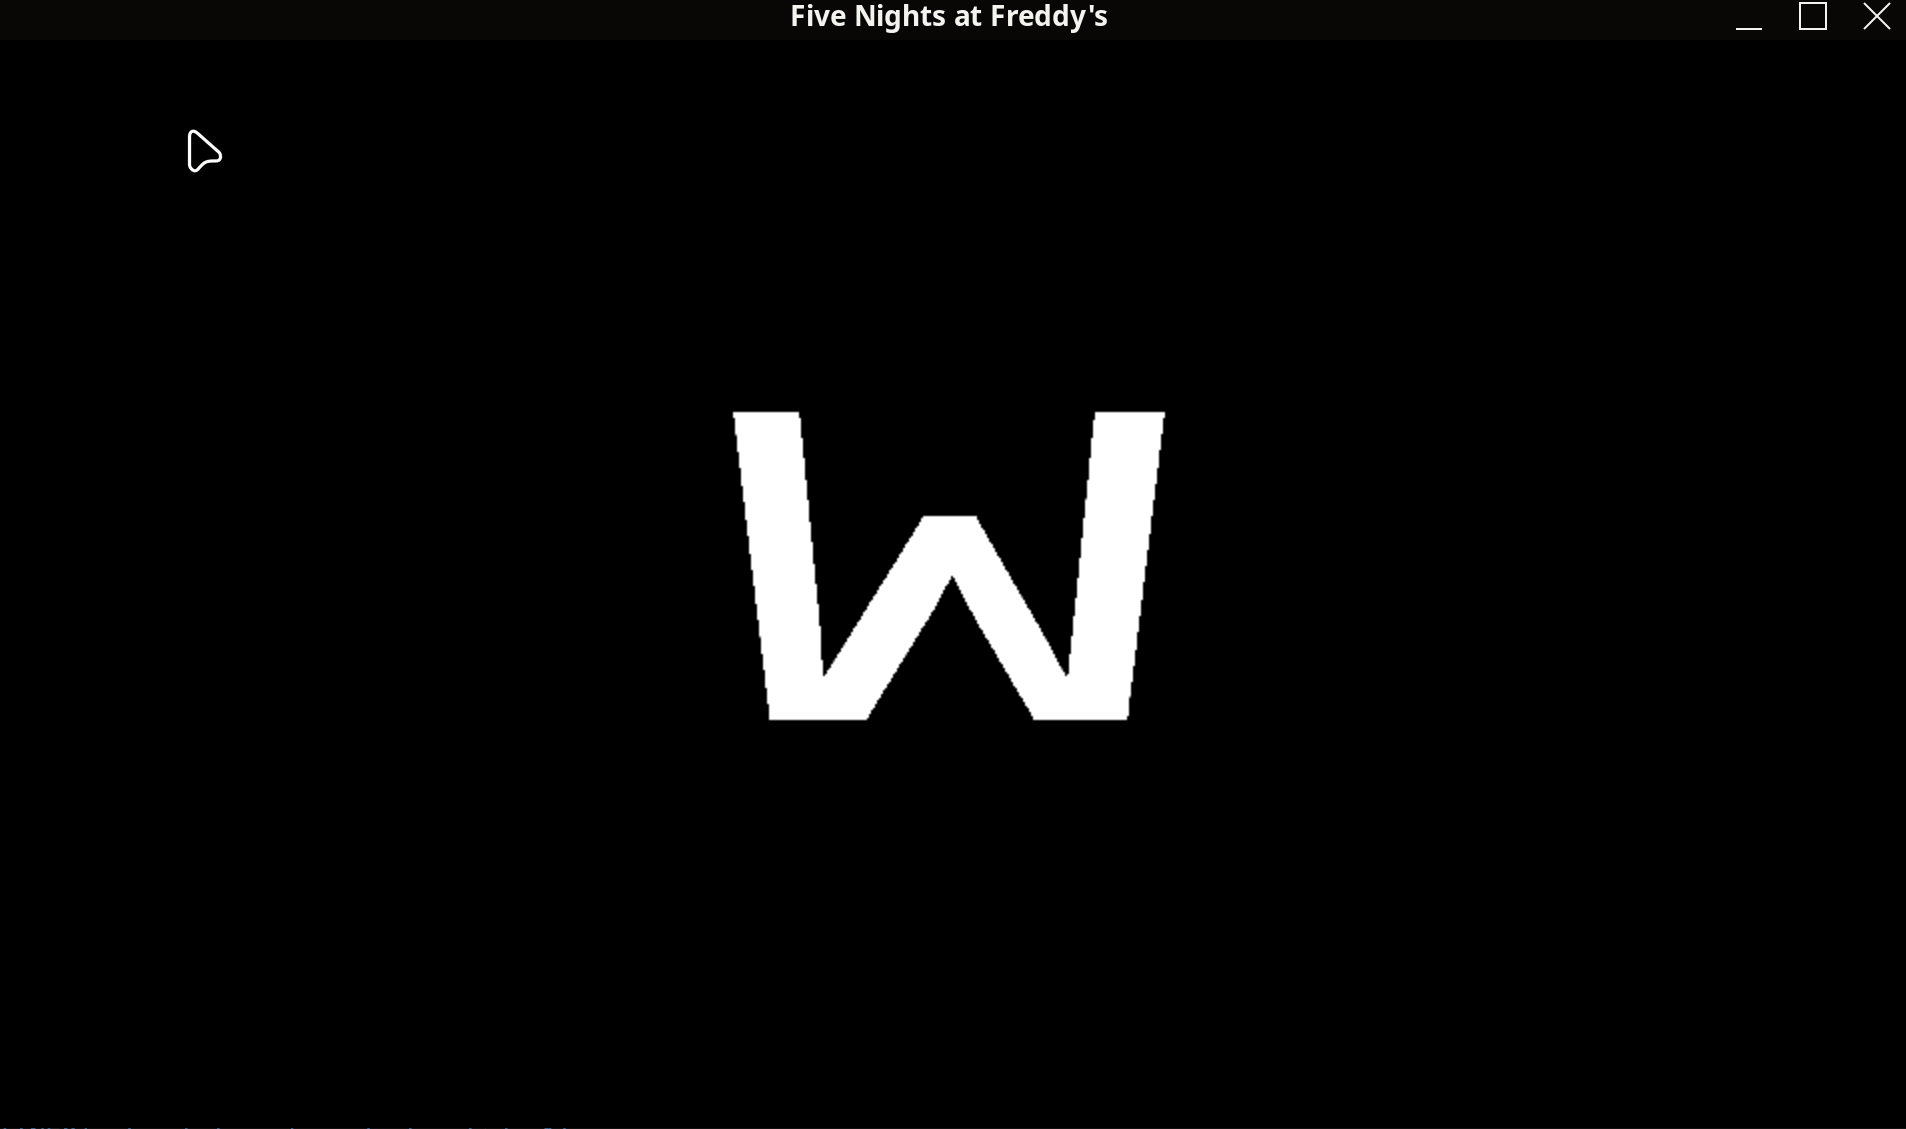
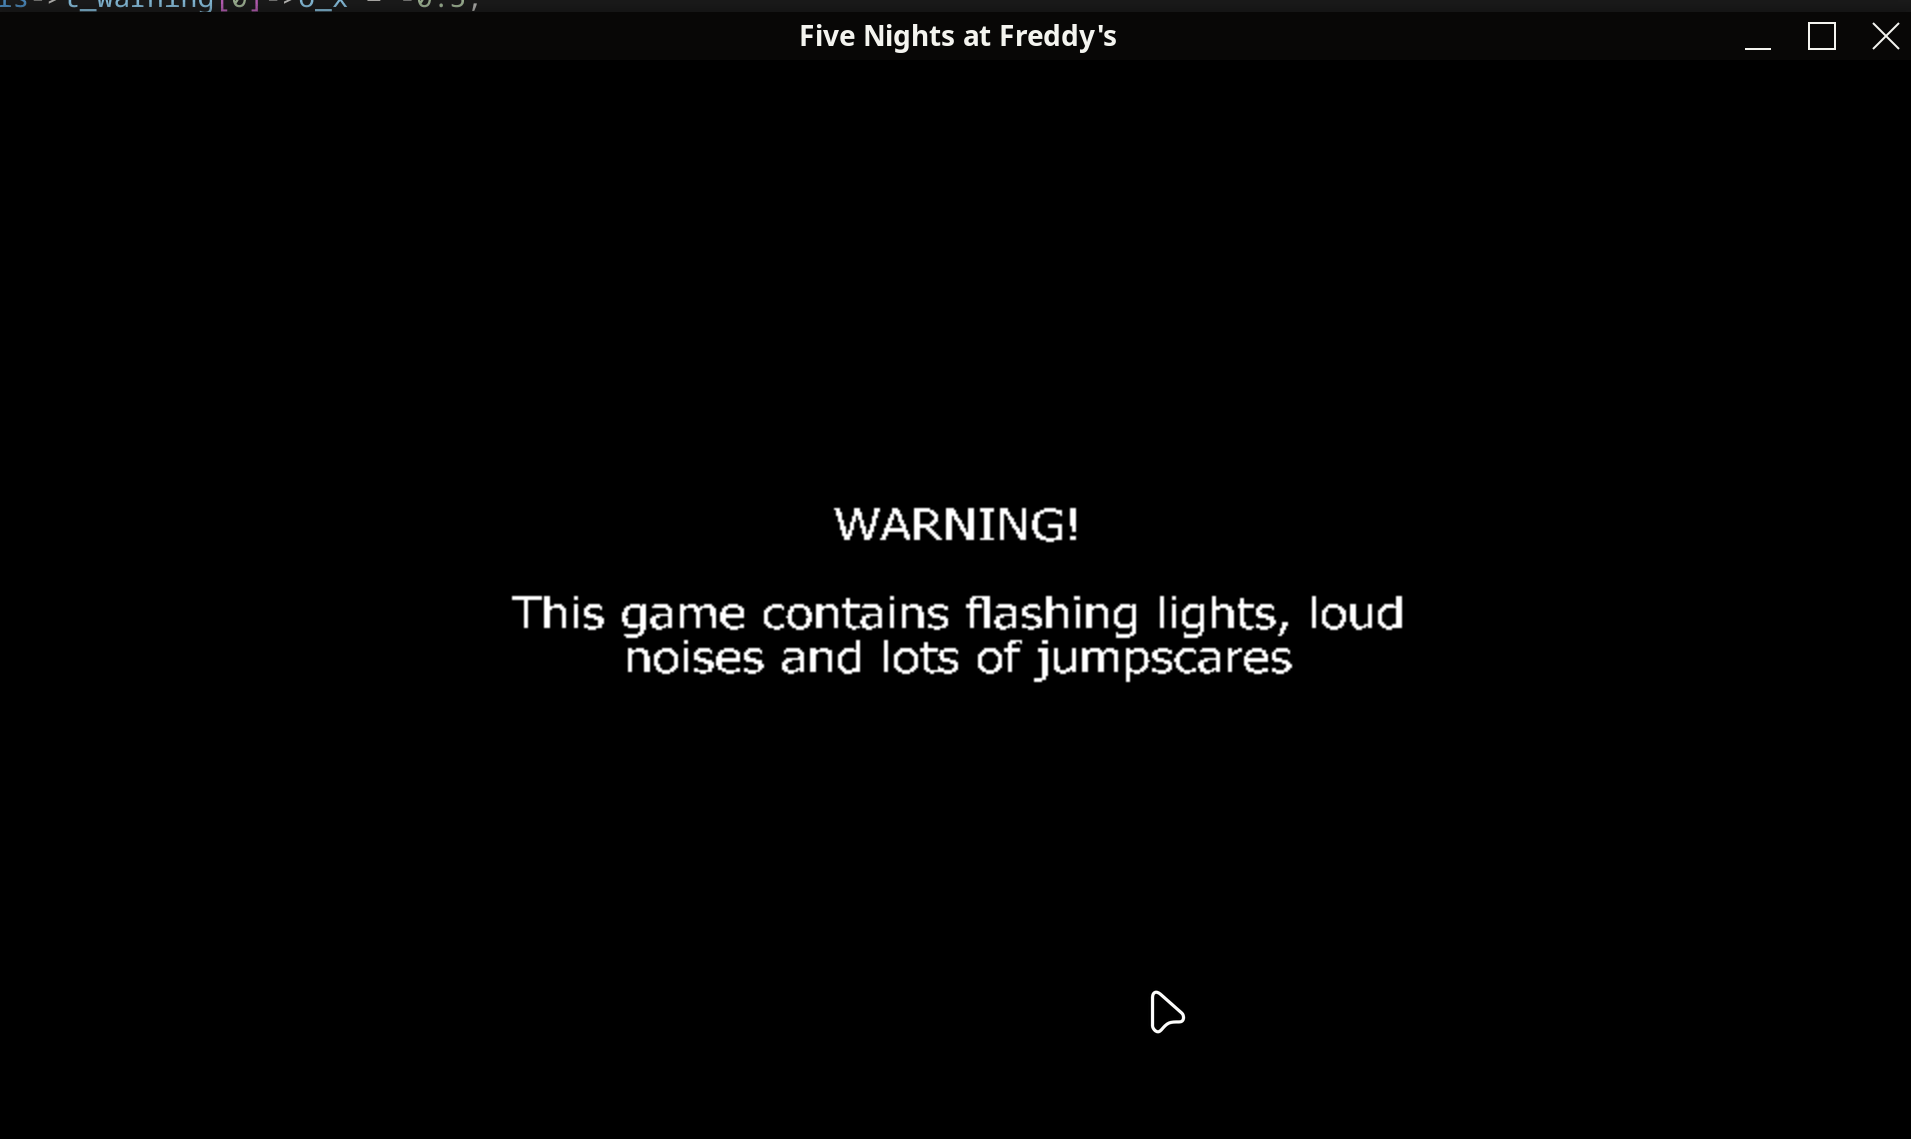
feat(mtsdf): MTSDF rendering is rather correct for now.

diff --git a/src/gl/mtsdf/font.cpp b/src/gl/mtsdf/font.cpp
@@ -6,10 +6,11 @@ using namespace GL;
 #include "gl/shader.hpp"
 
 #include <iostream>
+#include <sstream>
 
 std::unique_ptr<GL::Shader> MTSDF::Font::default_shader;
 
-MTSDF::Font::Font(const std::string& path, size_t count_x, size_t count_y, std::string charset)
+MTSDF::Font::Font(const std::string& path, const std::string& csv_path)
 {
     if(!default_shader)
         default_shader = std::make_unique<GL::Shader>("assets/shaders/mtsdf_default.vert", "assets/shaders/mtsdf_default.frag");
@@ -21,23 +22,37 @@ MTSDF::Font::Font(const std::string& path, size_t count_x, size_t count_y, std::
         .gpu_format = GL_RGBA,
         .format = GL_RGBA,
     });
-    this->count_x = count_x, this->count_y = count_y;
 
-    size_t index = 0;
-    double char_w = 1.0 / this->count_x, char_h = 1.0 / this->count_y;
-    for(auto& character : charset)
+    std::ifstream file(csv_path);
+    std::string line;
+    while (std::getline(file, line))
     {
-        SDL_FRect& current = rects[character];
-        int x = index % count_x, y = index / count_y;
-        current.x = x * char_w;
-        current.y = y * char_h;
-        current.w = char_w;
-        current.h = char_h;
-        index++;
-    }
-    this->path = path;
+        std::istringstream ss(line);
+        std::string token;
+        int column = 0;
+        GlyphData g{};
+        char c = 0;
 
-    std::cout << TTY_BLUE << "[INFO]: Loaded MTSDF font (path: " << this->path << ") (count_x: " << count_x << ") (count_y: " << count_y << ")\n" << TTY_RESET;
+        while (std::getline(ss, token, ',')) {
+            switch (column) {
+                case 0: c = std::stoi(token); break;
+                case 1: g.advance = std::stof(token); break;
+                case 2: g.quad.x = std::stof(token); break;
+                case 3: g.quad.y = std::stof(token); break;
+                case 4: g.quad.w = std::stof(token); break;
+                case 5: g.quad.h = std::stof(token); break;
+                case 6: g.atlas.x = std::stof(token) / this->texture->w; break;
+                case 7: g.atlas.y = std::stof(token) / this->texture->h; break;
+                case 8: g.atlas.w = std::stof(token) / this->texture->w; break;
+                case 9: g.atlas.h = std::stof(token) / this->texture->h; break;
+            }
+            column++;
+        }
+        glyphs[c] = g;
+    }
+
+    this->path = path;
+    std::cout << TTY_BLUE << "[INFO]: Loaded MTSDF font (path: " << this->path << ") (csv: " << csv_path << ")\n" << TTY_RESET;
 }
 
 MTSDF::Font::~Font()

diff --git a/src/gl/mtsdf/text.cpp b/src/gl/mtsdf/text.cpp
@@ -1,4 +1,5 @@
 #include "gl/mtsdf/text.hpp"
+#include <iostream>
 
 using namespace GL;
 
@@ -18,35 +19,57 @@ inline void buildVertices(GL::MTSDF::Text& self)
     // TODO: not optimal.
     self.vertexData.clear();
 
-    float pen_x = self.x;
-    float pen_y = self.y;
+    // Calculate maximum sizes.
+    float t_w = 0, t_h = 0;
+    for(char c : self.text)
+    {
+        auto it = self.font->glyphs.find(c);
+        if(it == self.font->glyphs.end()) continue;
+
+        t_w += self.s * it->second.advance * self.s_x;
+    }
+
+    float pen_x = self.x + t_w * self.o_x;
+    float pen_y = self.y + t_h * self.o_y;
 
     for(char c : self.text)
     {
-        auto it = self.font->rects.find(c);
-        if(it == self.font->rects.end()) continue;
+        auto it = self.font->glyphs.find(c);
+        if(it == self.font->glyphs.end()) continue;
 
-        SDL_FRect rect = it->second;
-        float w = self.w;
-        float h = self.h;
+        SDL_FRect& atlas = it->second.atlas;
+        float& u0 = atlas.x;
+        float& v0 = atlas.y;
+        float& u1 = atlas.w;
+        float& v1 = atlas.h;
 
-        float u0 = rect.x;
-        float v0 = rect.y;
-        float u1 = (rect.x + rect.w);
-        float v1 = (rect.y + rect.h);
+        SDL_FRect quad = it->second.quad;
+        quad.x *= self.s * self.s_x;
+        quad.y *= self.s * self.s_y;
+        quad.w *= self.s * self.s_x;
+        quad.h *= self.s * self.s_y;
 
         self.vertexData.insert(self.vertexData.end(), {
-            pen_x,     pen_y,     u0, v0,
-            pen_x+w,   pen_y,     u1, v0,
-            pen_x+w,   pen_y+h,   u1, v1,
+            pen_x + quad.x, pen_y + quad.y,    
+            u0, v1,
 
-            pen_x,     pen_y,     u0, v0,
-            pen_x+w,   pen_y+h,   u1, v1,
-            pen_x,     pen_y+h,   u0, v1,
+            pen_x + quad.w, pen_y + quad.y,
+            u1, v1,
+
+            pen_x + quad.w, pen_y + quad.h,
+            u1, v0,
+
+            pen_x + quad.x, pen_y + quad.y,
+            u0, v1,
+
+            pen_x + quad.w, pen_y + quad.h,
+            u1, v0,
+
+            pen_x + quad.x, pen_y + quad.h,
+            u0, v0,
         });
 
-        pen_x += w;
-        break;
+        pen_x += self.s * it->second.advance * self.s_x;
     }
 
     glBindBuffer(GL_ARRAY_BUFFER, self.vbo);

diff --git a/src/game/main_loading.cpp b/src/game/main_loading.cpp
@@ -7,10 +7,31 @@ using namespace Game;
 
 States::MainLoading::MainLoading()
 {
-    this->f_consolas = Core::AssetManager::load<GL::MTSDF::Font>("f_consolas", "assets/images/fonts/consolas.stf.png");
-    this->t_warning = std::make_unique<GL::MTSDF::Text>(f_consolas, "WARNING!");
-    this->t_warning->x = -0.5;
-    this->t_warning->y = -0.5;
+    this->f_tahoma = Core::AssetManager::load<GL::MTSDF::Font>("f_tahoma", "assets/images/fonts/tahoma.stf.png", "assets/images/fonts/tahoma.csv");
+
+    // TODO: ugly
+
+    this->t_warning[0] = std::make_unique<GL::MTSDF::Text>(f_tahoma, "WARNING!");
+    this->t_warning[0]->o_x = -0.5;
+    this->t_warning[0]->x = 0;
+    this->t_warning[0]->y = 80 / 544.0;
+    this->t_warning[0]->o_x = -0.5;
+    this->t_warning[0]->s = 40 / 544.0;
+    this->t_warning[0]->s_x = 0.66;
+    
+    this->t_warning[1] = std::make_unique<GL::MTSDF::Text>(f_tahoma, "This game contains flashing lights, loud");
+    this->t_warning[1]->o_x = -0.5;
+    this->t_warning[1]->x = 0;
+    this->t_warning[1]->y = 0 / 544.0;
+    this->t_warning[1]->s = 40 / 544.0;
+    this->t_warning[1]->s_x = 0.66;
+
+    this->t_warning[2] = std::make_unique<GL::MTSDF::Text>(f_tahoma, "noises, and lots of jumpscares!");
+    this->t_warning[2]->o_x = -0.5;
+    this->t_warning[2]->x = 0;
+    this->t_warning[2]->y = -40 / 544.0;
+    this->t_warning[2]->s = 40 / 544.0;
+    this->t_warning[2]->s_x = 0.66;
 }
 
 States::MainLoading::~MainLoading()
@@ -31,7 +52,8 @@ void States::MainLoading::draw(int w, int h)
     glClearColor(0.0f, 0.0f, 0.0f, 1.0f);
     glClear(GL_COLOR_BUFFER_BIT);
 
-    this->t_warning->draw(GL::MTSDF::Font::default_shader);
+    for(auto index = 0; index < 3; index++)
+        this->t_warning[index]->draw(GL::MTSDF::Font::default_shader);
 }
 
 void States::MainLoading::update(double dt)

diff --git a/inc/gl/mtsdf/font.hpp b/inc/gl/mtsdf/font.hpp
@@ -12,16 +12,22 @@
 
 namespace GL::MTSDF
 {
+    struct GlyphData
+    {
+        float advance;
+        SDL_FRect quad;
+        SDL_FRect atlas;
+    };
+
     struct Font : public Core::Asset
     {
         std::unique_ptr<Texture> texture;
-        size_t count_x, count_y;
-        std::map<char, SDL_FRect> rects;
+        std::map<char, GlyphData> glyphs;
         std::string path;
 
         static std::unique_ptr<GL::Shader> default_shader;
 
-        Font(const std::string&, size_t = 10, size_t = 10, std::string = "!\"#$%&\'()*+,-./0123456789:;<=>?@ABCDEFGHIJKLMNOPQRSTUVWXYZ[\\]^_`abcdefghijklmnopqrstuvwxyz{|}~      ");
+        Font(const std::string&, const std::string&);
         ~Font();
     };
 }

diff --git a/inc/game/main_loading.hpp b/inc/game/main_loading.hpp
@@ -11,8 +11,8 @@ namespace Game::States
         MainLoading();
         ~MainLoading();
 
-        std::unique_ptr<GL::MTSDF::Text> t_warning;
-        std::shared_ptr<GL::MTSDF::Font> f_consolas;
+        std::unique_ptr<GL::MTSDF::Text> t_warning[3];
+        std::shared_ptr<GL::MTSDF::Font> f_tahoma;
 
         virtual void draw(int w, int h) override;
         virtual void update(double dt) override;

diff --git a/src/game/menu/background.cpp b/src/game/menu/background.cpp
@@ -14,10 +14,10 @@ Background::Background()
     );
 
     static float verts[] = {
-        1.0f, 1.0f, 0.0f, 1.0f,
-        -1.0f, 1.0, 1.0f, 1.0f,
-        1.0f, -1.0f, 0.0f, 0.0f,
-        -1.0f, -1.0f, 1.0f, 0.0f,
+        -1.0f, -1.0f, 0.0f, 1.0f,
+        1.0f, -1.0, 1.0f, 1.0f,
+        -1.0f, 1.0f, 0.0f, 0.0f,
+        1.0f, 1.0f, 1.0f, 0.0f,
     };
 
     glGenBuffers(1, &this->vbo);

diff --git a/inc/gl/mtsdf/text.hpp b/inc/gl/mtsdf/text.hpp
@@ -15,8 +15,9 @@ namespace GL::MTSDF
     {
         std::shared_ptr<Font> font;
         std::string text;
-        float x = 0.0f, y = 0.0f, w = 1.0f, h = 1.0f;
-        float s = 1.0f;
+        float x = 9.0f, y = 9.0f, s = 1.0f;
+        float o_x = 0.0f, o_y = 0.0f;
+        float s_x = 1.0f, s_y = 1.0f;
         SDL_Color color = {255, 255, 255, 255};
 
         // GLES2 VBO
